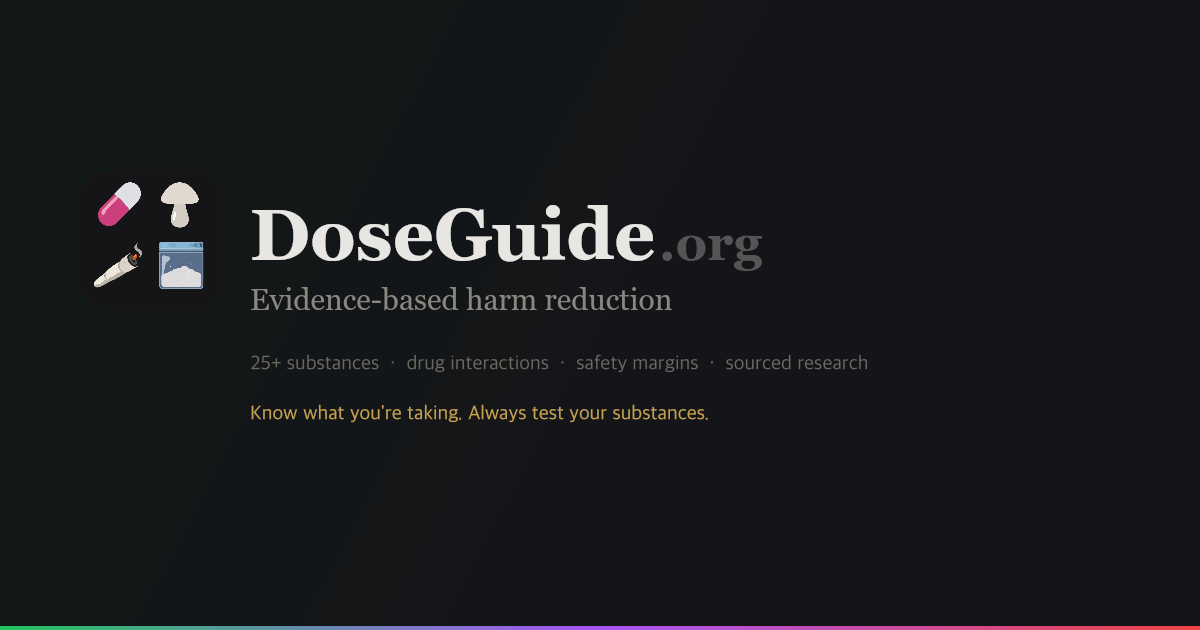
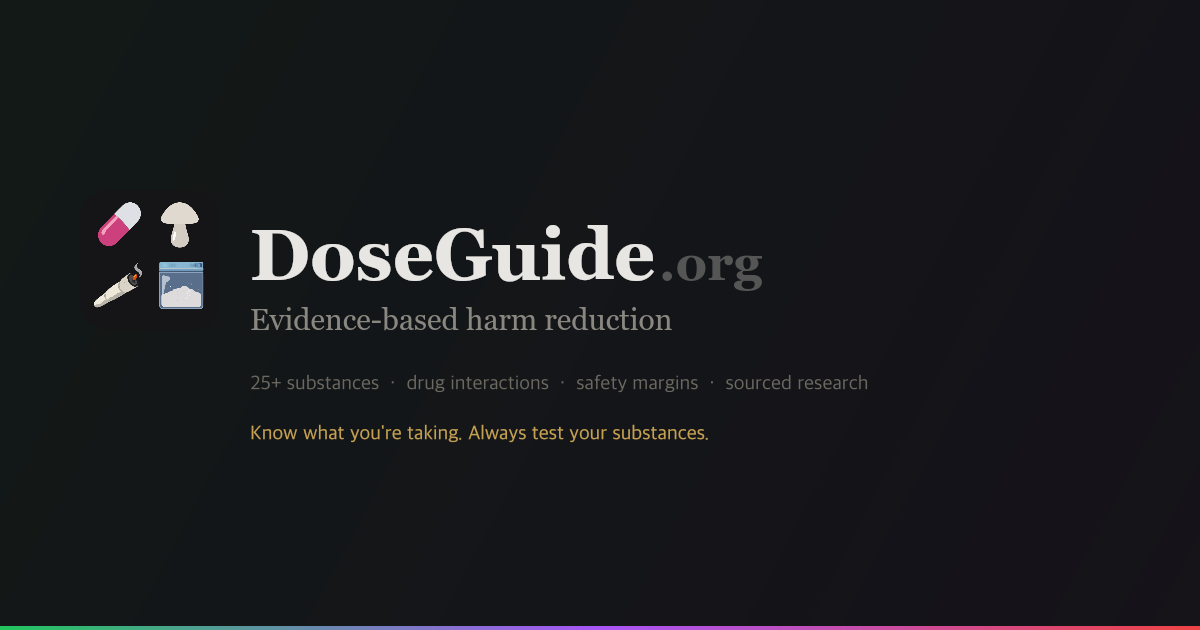
fix OG share image

Changed region(s): [[0.0617, 0.2714, 0.6475, 0.5429], [0.2158, 0.573, 0.5858, 0.6937], [0.6167, 0.573, 0.7092, 0.6333]]

diff --git a/scripts/generate-og.js b/scripts/generate-og.js
@@ -24,12 +24,14 @@ async function generate() {
   // Load and draw logo
   const logo = await loadImage(resolve(__dirname, '../public/logo.png'));
   const logoSize = 140;
-  const logoX = 80, logoY = 170;
+  const blockH = 250;
+  const topY = (H - blockH) / 2;
+  const logoX = 80, logoY = topY;
   ctx.drawImage(logo, logoX, logoY, logoSize, logoSize);
 
   // Title — "DoseGuide" + ".org"
   const titleX = logoX + logoSize + 30;
-  const titleY = 260;
+  const titleY = topY + 90;
   ctx.fillStyle = '#e8e6e3';
   ctx.font = 'bold 72px Georgia, serif';
   const titleW = ctx.measureText('DoseGuide').width;
